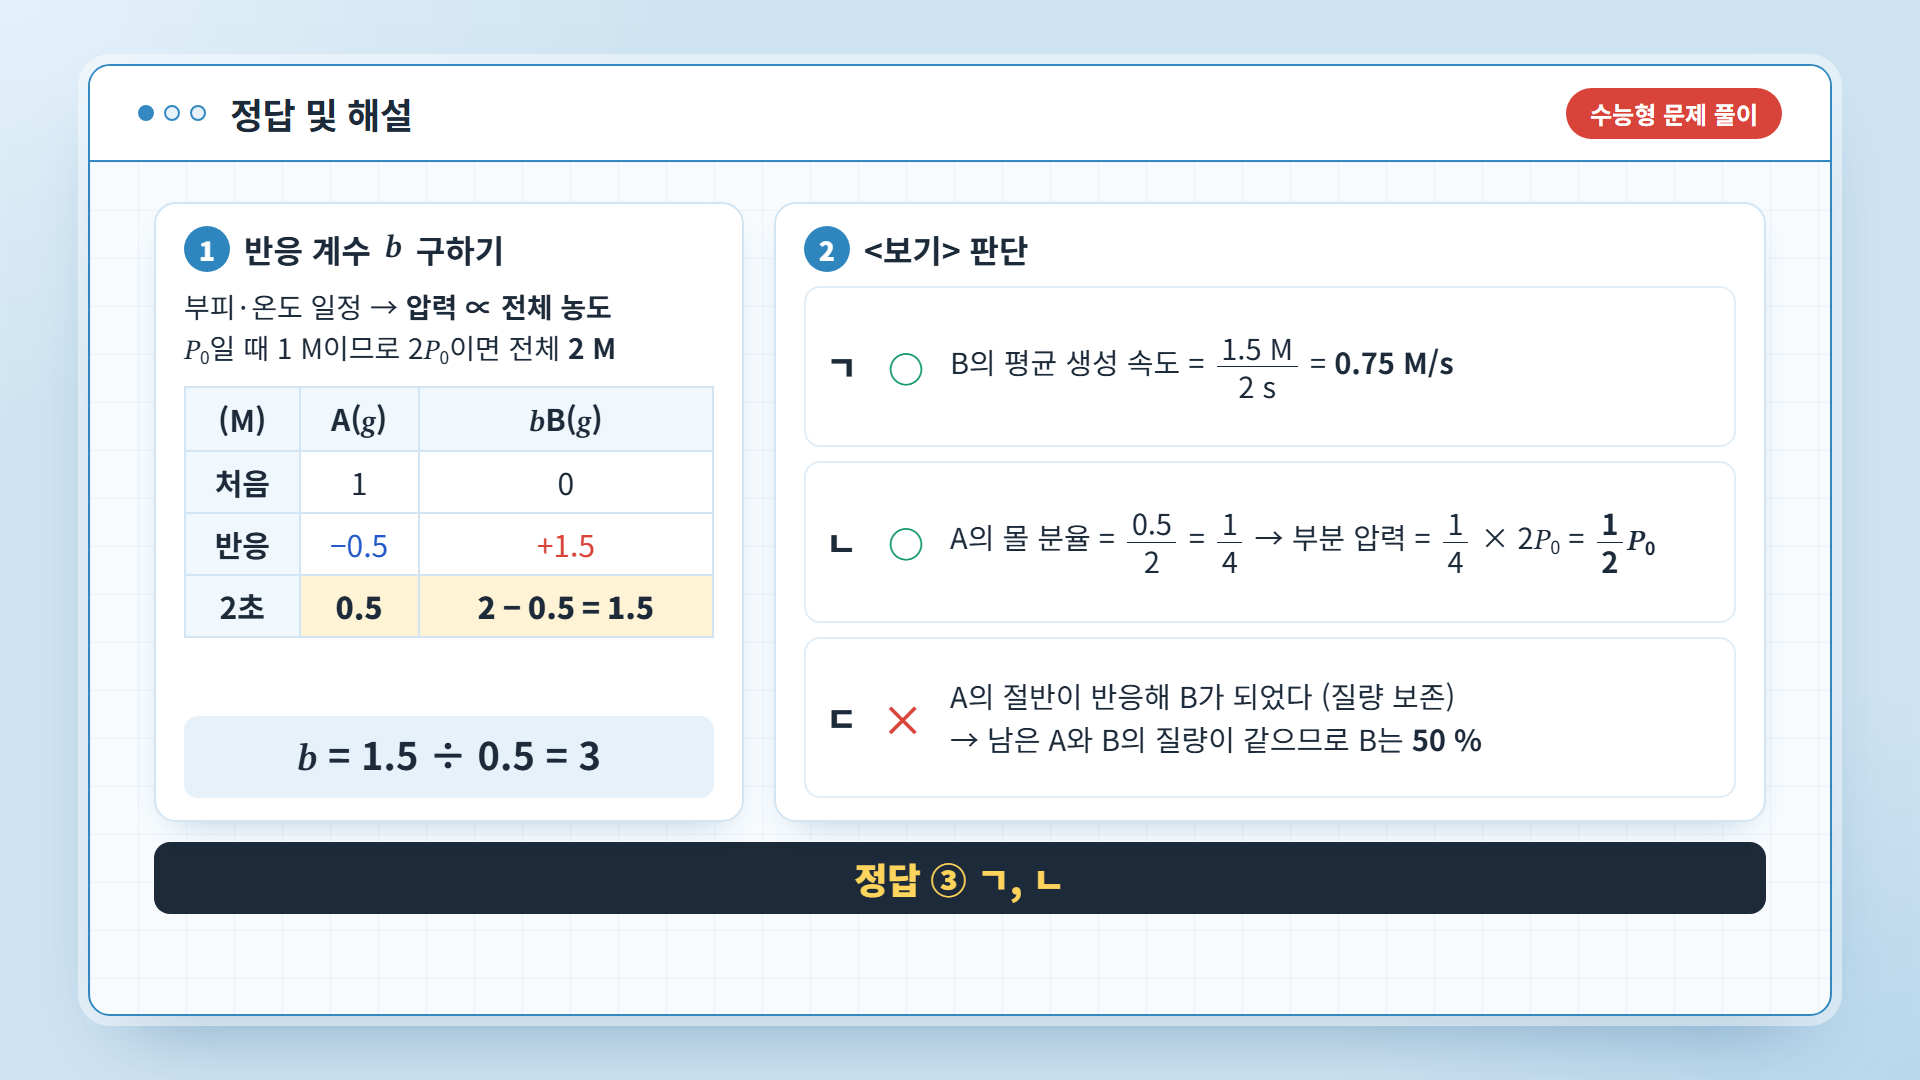
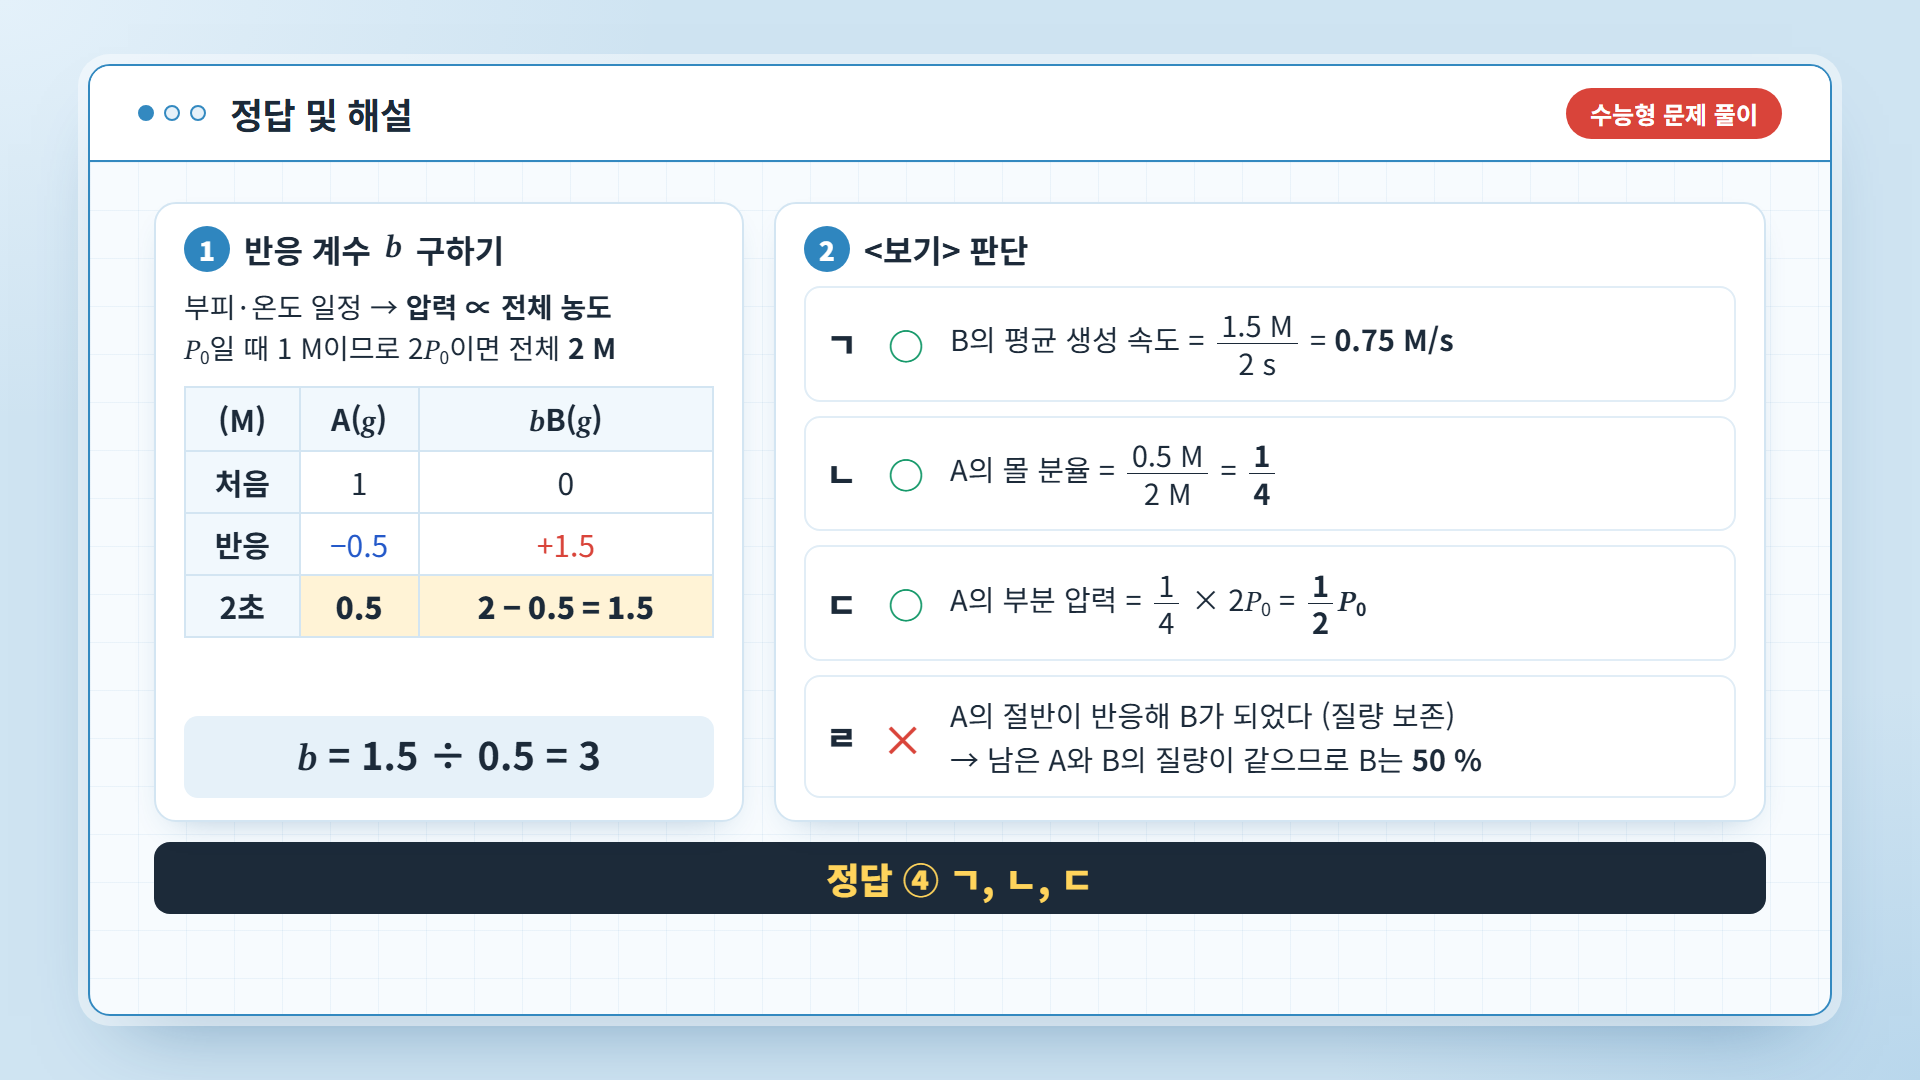
reaction-rate: 수능형 문제 보기를 ㄱ~ㄹ 4개로 복원, 정답 ④

diff --git a/reaction-rate-lesson/index.html b/reaction-rate-lesson/index.html
@@ -830,15 +830,16 @@
           <div class="exam-box">
             <span>&lt;보기&gt;</span>
             <p><span>ㄱ.</span><span>0~2초 동안 B(<i>g</i>)의 평균 생성 속도는 0.75&nbsp;M/s이다.</span></p>
-            <p><span>ㄴ.</span><span>2초일 때 A(<i>g</i>)의 부분 압력은 <span class="frac"><span>1</span><span>2</span></span><i>P</i><sub>0</sub>이다.</span></p>
-            <p><span>ㄷ.</span><span>2초일 때 B(<i>g</i>)의 질량 백분율(%)은 75이다.</span></p>
+            <p><span>ㄴ.</span><span>2초일 때 A(<i>g</i>)의 몰 분율(<span class="frac"><span><i>n</i><sub>A</sub></span><span><i>n</i><sub>전체</sub></span></span>)은 <span class="frac"><span>1</span><span>4</span></span>이다.</span></p>
+            <p><span>ㄷ.</span><span>2초일 때 A(<i>g</i>)의 부분 압력은 <span class="frac"><span>1</span><span>2</span></span><i>P</i><sub>0</sub>이다.</span></p>
+            <p><span>ㄹ.</span><span>2초일 때 B(<i>g</i>)의 질량 백분율(%)은 75이다.</span></p>
           </div>
-          <div class="exam-opts"><span>① ㄱ</span><span>② ㄷ</span><span>③ ㄱ, ㄴ</span><span>④ ㄴ, ㄷ</span><span>⑤ ㄱ, ㄴ, ㄷ</span></div>
+          <div class="exam-opts"><span>① ㄱ</span><span>② ㄴ, ㄷ</span><span>③ ㄱ, ㄹ</span><span>④ ㄱ, ㄴ, ㄷ</span><span>⑤ ㄴ, ㄷ, ㄹ</span></div>
         </div>
       </div>
     </div>
   </div>
-  <aside>[수능형 문제] 조용히 시험지처럼 풀게 해 주세요. 압력으로 전체 농도를 먼저 구하는 것이 첫 번째 관문입니다. 정답은 다음 슬라이드에서 ③ ㄱ, ㄴ입니다.</aside>
+  <aside>[수능형 문제] 조용히 시험지처럼 풀게 해 주세요. 압력으로 전체 농도를 먼저 구하는 것이 첫 번째 관문입니다. 정답은 다음 슬라이드에서 ④ ㄱ, ㄴ, ㄷ입니다.</aside>
 </section>
 
 <!-- 18 -->
@@ -861,14 +862,15 @@
         <div class="card ex-card">
           <h3><span class="num">2</span>&lt;보기&gt; 판단</h3>
           <div class="ex-item yes" data-step="4 rise"><span class="k">ㄱ</span><span class="mk">○</span><span>B의 평균 생성 속도 = <span class="frac"><span>1.5 M</span><span>2 s</span></span> = <b>0.75 M/s</b></span></div>
-          <div class="ex-item yes" data-step="5 rise"><span class="k">ㄴ</span><span class="mk">○</span><span style="white-space:nowrap">A의 몰 분율 = <span class="frac"><span>0.5</span><span>2</span></span> = <span class="frac"><span>1</span><span>4</span></span> → 부분 압력 = <span class="frac"><span>1</span><span>4</span></span> × 2<i class="m">P</i><sub>0</sub> = <b><span class="frac"><span>1</span><span>2</span></span><i class="m">P</i><sub>0</sub></b></span></div>
-          <div class="ex-item no" data-step="6 rise"><span class="k">ㄷ</span><span class="mk">✕</span><span>A의 절반이 반응해 B가 되었다 (질량 보존)<br>→ 남은 A와 B의 질량이 같으므로 B는 <b>50 %</b></span></div>
+          <div class="ex-item yes" data-step="5 rise"><span class="k">ㄴ</span><span class="mk">○</span><span>A의 몰 분율 = <span class="frac"><span>0.5 M</span><span>2 M</span></span> = <b><span class="frac"><span>1</span><span>4</span></span></b></span></div>
+          <div class="ex-item yes" data-step="6 rise"><span class="k">ㄷ</span><span class="mk">○</span><span>A의 부분 압력 = <span class="frac"><span>1</span><span>4</span></span> × 2<i class="m">P</i><sub>0</sub> = <b><span class="frac"><span>1</span><span>2</span></span><i class="m">P</i><sub>0</sub></b></span></div>
+          <div class="ex-item no" data-step="7 rise"><span class="k">ㄹ</span><span class="mk">✕</span><span>A의 절반이 반응해 B가 되었다 (질량 보존)<br>→ 남은 A와 B의 질량이 같으므로 B는 <b>50 %</b></span></div>
         </div>
       </div>
-      <p class="ex-ans" data-step="7 pop">정답 ③ ㄱ, ㄴ</p>
+      <p class="ex-ans" data-step="8 pop">정답 ④ ㄱ, ㄴ, ㄷ</p>
     </div>
   </div>
-  <aside>[해설] 클릭마다 전체 농도, 양적 관계 표, b = 3, ㄱ, ㄴ, ㄷ, 정답 순서로 나타납니다. ㄷ은 분자량을 몰라도 질량 보존만으로 판단할 수 있다는 점을 강조해 주세요. 반응한 A 0.5 M의 질량이 그대로 B의 질량이 되고, A도 0.5 M이 남아 있으니까요.</aside>
+  <aside>[해설] 클릭마다 전체 농도, 양적 관계 표, b = 3, ㄱ, ㄴ, ㄷ, ㄹ, 정답 순서로 나타납니다. ㄹ은 분자량을 몰라도 질량 보존만으로 판단할 수 있다는 점을 강조해 주세요. 반응한 A 0.5 M의 질량이 그대로 B의 질량이 되고, A도 0.5 M이 남아 있으니까요.</aside>
 </section>
 
 <!-- 19 -->
